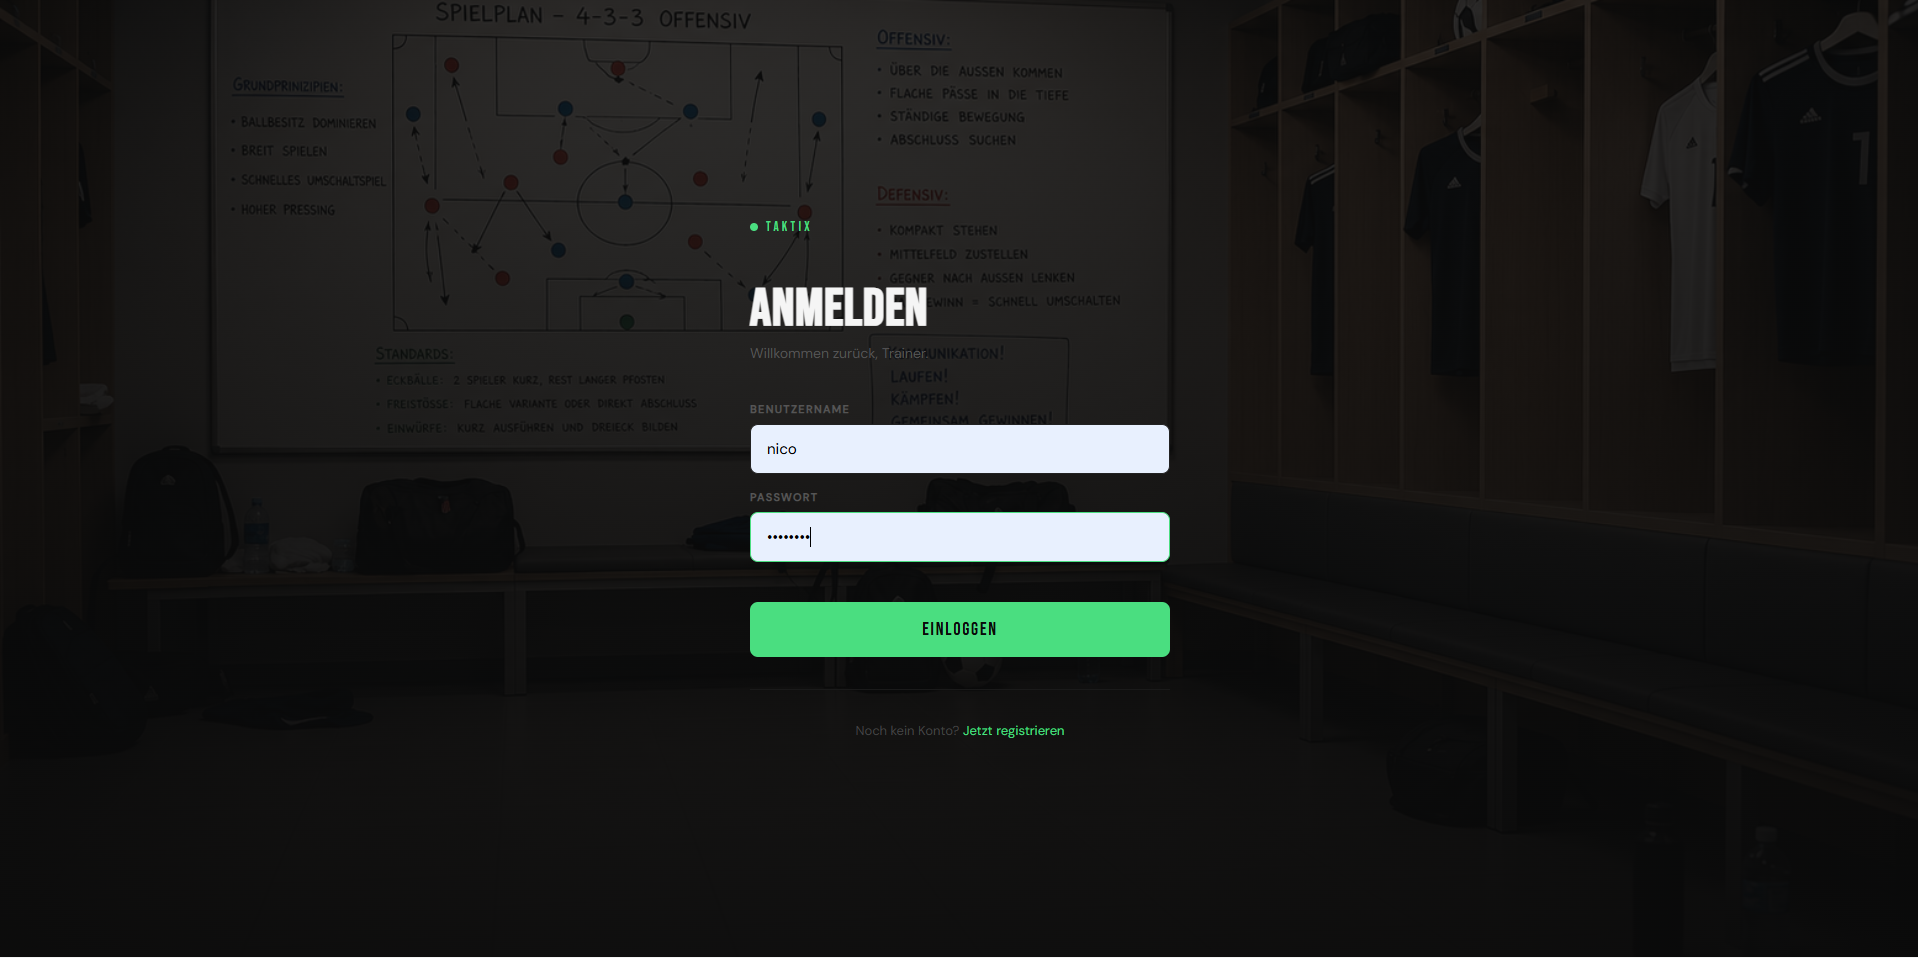
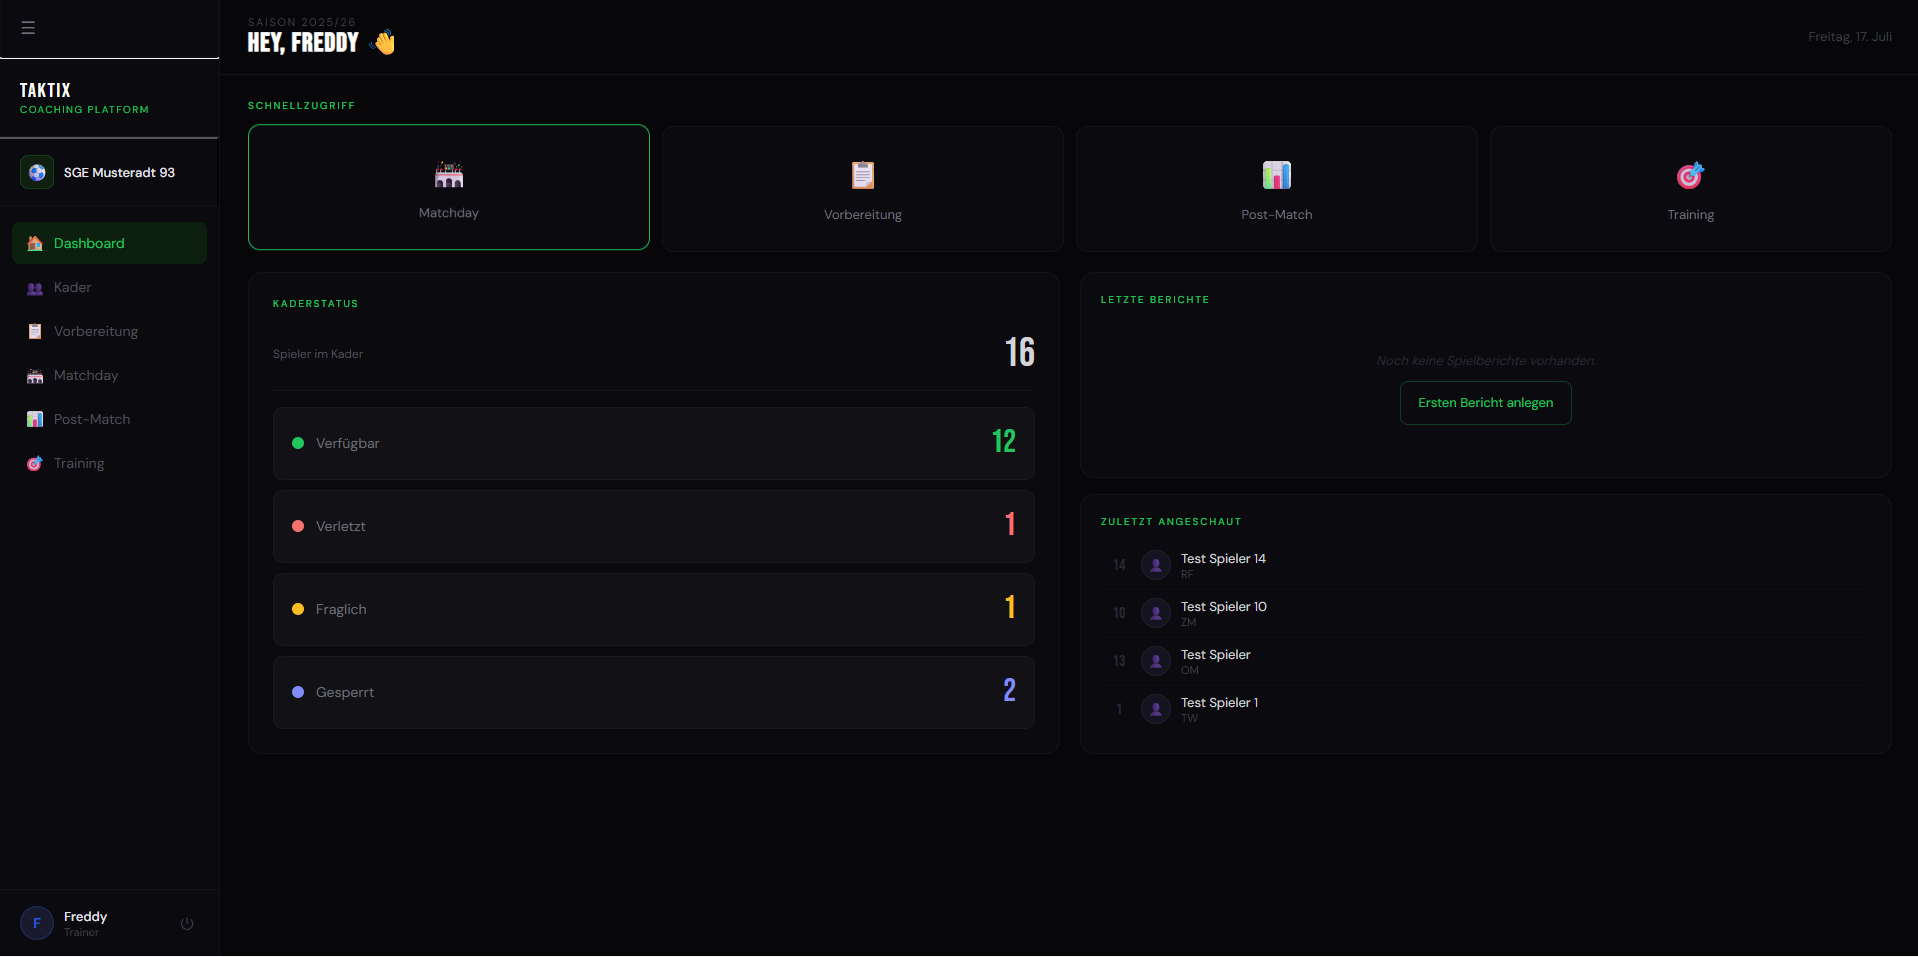
docs: Coderr documentation from the README, Docker quickstart for Taktix, new Taktix card image

diff --git a/i18n/de/docusaurus-plugin-content-docs/current/coderr.md b/i18n/de/docusaurus-plugin-content-docs/current/coderr.md
@@ -6,20 +6,77 @@ sidebar_position: 7
 
 # Coderr
 
-Coderr ist eine Plattform, auf der Anbieter Angebote erstellen und Kunden diese in Anspruch nehmen können. Ich habe das Backend mit Python, Django und Django REST Framework gebaut, inklusive Benutzerverwaltung, Authentifizierung und PostgreSQL-Datenbank.
+## Beschreibung
 
-## Technik
+Coderr ist eine RESTful-Backend-API für eine Freelancer-Plattform für Entwickler, gebaut mit Django REST Framework.
 
-Python, Django, Django REST Framework, PostgreSQL
+Das Backend übernimmt alle Kernfunktionen wie Benutzerverwaltung, Projektverwaltung, Buchungen und die Kommunikation zwischen Kunden und Entwicklern. Es ist so ausgelegt, dass es sich nahtlos in eine bestehende Frontend-Anwendung einbinden lässt.
 
-## Funktionen
+## Voraussetzungen
 
-<!-- TODO: list the main features of Coderr. -->
+Stelle sicher, dass auf deinem System folgende Software installiert ist:
+
+- Python 3.12
+- Git
 
 ## Schnellstart
 
-<!-- TODO: add prerequisites and setup steps. -->
+### Repository klonen
 
-## Architektur
+```bash
+git clone https://github.com/NicoMeyerDev/coderr-Backend.git
+```
 
-<!-- TODO: add architecture details and screenshots. -->
+### In das Projekt wechseln
+
+```bash
+cd coderr-Backend
+```
+
+### Virtuelle Umgebung erstellen und aktivieren
+
+```bash
+python -m venv env
+```
+
+Aktiviere sie:
+
+- unter Windows: `.\env\Scripts\Activate.ps1`
+- unter macOS/Linux: `source env/bin/activate`
+
+### Abhängigkeiten installieren
+
+```bash
+pip install -r requirements.txt
+```
+
+### Datenbank einrichten
+
+```bash
+python manage.py migrate
+```
+
+### Anwendung starten
+
+```bash
+python manage.py runserver
+```
+
+### Anwendung öffnen
+
+Die API ist danach unter `http://127.0.0.1:8000/` erreichbar.
+
+## Nutzung
+
+### Zugehörige Repositories
+
+| Repository   | Beschreibung                                                     |
+| ------------ | ---------------------------------------------------------------- |
+| **Frontend** | [Coderr-Frontend](https://github.com/NicoMeyerDev/Coderr-Frontend) |
+| **Backend**  | [coderr-Backend](https://github.com/NicoMeyerDev/coderr-Backend) |
+
+Das Frontend ist eine einfache Vanilla-JavaScript-Anwendung. Es braucht das laufende Backend, um zu funktionieren.
+
+**Technik:** Python, Django, Django REST Framework, PostgreSQL
+
+<!-- TODO: add architecture details and screenshots -->

diff --git a/docs/coderr.md b/docs/coderr.md
@@ -6,20 +6,77 @@ sidebar_position: 7
 
 # Coderr
 
-Coderr is a platform where providers create offers and customers can book them. I built the backend with Python, Django and Django REST Framework, including user management, authentication and a PostgreSQL database.
+## Description
 
-## Tech
+Coderr is a RESTful backend API for a freelancer developer platform, built with Django REST Framework.
 
-Python, Django, Django REST Framework, PostgreSQL
+The backend handles all core functionalities such as user management, project handling, bookings, and communication between clients and developers. It is designed to integrate seamlessly with an existing frontend application.
 
-## Features
+## Prerequisites
 
-<!-- TODO: list the main features of Coderr. -->
+Make sure the following software is installed on your system:
+
+- Python 3.12
+- Git
 
 ## Quickstart
 
-<!-- TODO: add prerequisites and setup steps. -->
+### Clone the repository
 
-## Architecture
+```bash
+git clone https://github.com/NicoMeyerDev/coderr-Backend.git
+```
 
-<!-- TODO: add architecture details and screenshots. -->
+### Navigate to the project
+
+```bash
+cd coderr-Backend
+```
+
+### Create and activate a virtual environment
+
+```bash
+python -m venv env
+```
+
+Activate it:
+
+- on Windows run: `.\env\Scripts\Activate.ps1`
+- on macOS/Linux run: `source env/bin/activate`
+
+### Install the dependencies
+
+```bash
+pip install -r requirements.txt
+```
+
+### Set up the database
+
+```bash
+python manage.py migrate
+```
+
+### Start the application
+
+```bash
+python manage.py runserver
+```
+
+### Open the application
+
+The API is then available at `http://127.0.0.1:8000/`.
+
+## Usage
+
+### Related repositories
+
+| Repository   | Description                                                      |
+| ------------ | ---------------------------------------------------------------- |
+| **Frontend** | [Coderr-Frontend](https://github.com/NicoMeyerDev/Coderr-Frontend) |
+| **Backend**  | [coderr-Backend](https://github.com/NicoMeyerDev/coderr-Backend) |
+
+The frontend is a simple Vanilla JavaScript application. It needs the running backend to work.
+
+**Tech:** Python, Django, Django REST Framework, PostgreSQL
+
+<!-- TODO: add architecture details and screenshots -->

diff --git a/i18n/de/docusaurus-plugin-content-docs/current/taktix.md b/i18n/de/docusaurus-plugin-content-docs/current/taktix.md
@@ -78,8 +78,8 @@ Live-Demo: [matchday-app-lqai.onrender.com](https://matchday-app-lqai.onrender.c
 
 Stelle sicher, dass auf deinem System folgende Software installiert ist:
 
-- Python 3.12 oder neuer
-- Node.js 22 oder neuer
+- Docker (empfohlen), oder alternativ:
+- Python 3.12 oder neuer und Node.js 22 oder neuer
 
 ## Schnellstart
 
@@ -89,7 +89,45 @@ Stelle sicher, dass auf deinem System folgende Software installiert ist:
 git clone https://github.com/NicoMeyerDev/matchday-app
 ```
 
-### Backend starten
+### Mit Docker starten
+
+Lege im Hauptordner eine Datei `.env` an und trage deine Werte ein, zum Beispiel:
+
+```bash
+POSTGRES_DB=matchday
+POSTGRES_USER=matchday_user
+POSTGRES_PASSWORD=your-password
+
+SECRET_KEY=your-secret-key
+DJANGO_ALLOWED_HOSTS=localhost,127.0.0.1
+
+DJANGO_SUPERUSER_USERNAME=admin
+DJANGO_SUPERUSER_EMAIL=admin@example.com
+DJANGO_SUPERUSER_PASSWORD=your-admin-password
+
+FRONTEND_URL=http://localhost:8080
+DEBUG=False
+```
+
+Starte danach alle Container:
+
+```bash
+docker compose up --build -d
+```
+
+Docker Compose startet drei Services:
+
+- **db:** PostgreSQL mit einem benannten Volume (`postgres_data`), sodass die Daten Neustarts überstehen
+- **backend:** Django REST Framework mit gunicorn, unter `http://localhost:8000/api/`. Das Entrypoint-Skript wendet beim Start die Migrationen an und legt den Superuser an. Der Container läuft als Nicht-Root-Benutzer.
+- **frontend:** das React-Frontend hinter nginx, unter `http://localhost:8080`
+
+:::note
+Verwende in der `.env` eigene, geheime Werte und committe die Datei nicht ins Repository.
+:::
+
+### Alternativ: ohne Docker starten
+
+#### Backend
 
 ```bash
 cd backend
@@ -109,7 +147,7 @@ python manage.py runserver
 
 Das Backend läuft unter `http://localhost:8000/api/`.
 
-### Frontend starten
+#### Frontend
 
 ```bash
 cd frontend

diff --git a/docs/taktix.md b/docs/taktix.md
@@ -78,8 +78,8 @@ Live demo: [matchday-app-lqai.onrender.com](https://matchday-app-lqai.onrender.c
 
 Make sure the following software is installed on your system:
 
-- Python 3.12 or newer
-- Node.js 22 or newer
+- Docker (recommended), or alternatively:
+- Python 3.12 or newer and Node.js 22 or newer
 
 ## Quickstart
 
@@ -89,7 +89,45 @@ Make sure the following software is installed on your system:
 git clone https://github.com/NicoMeyerDev/matchday-app
 ```
 
-### Start the backend
+### Start with Docker
+
+Create a `.env` file in the root directory and fill in your values, for example:
+
+```bash
+POSTGRES_DB=matchday
+POSTGRES_USER=matchday_user
+POSTGRES_PASSWORD=your-password
+
+SECRET_KEY=your-secret-key
+DJANGO_ALLOWED_HOSTS=localhost,127.0.0.1
+
+DJANGO_SUPERUSER_USERNAME=admin
+DJANGO_SUPERUSER_EMAIL=admin@example.com
+DJANGO_SUPERUSER_PASSWORD=your-admin-password
+
+FRONTEND_URL=http://localhost:8080
+DEBUG=False
+```
+
+Then start all containers:
+
+```bash
+docker compose up --build -d
+```
+
+Docker Compose starts three services:
+
+- **db:** PostgreSQL with a named volume (`postgres_data`), so the data survives restarts
+- **backend:** Django REST Framework with gunicorn, at `http://localhost:8000/api/`. The entrypoint script applies the migrations on start and creates the superuser. The container runs as a non-root user.
+- **frontend:** the React frontend behind nginx, at `http://localhost:8080`
+
+:::note
+Use your own secret values in the `.env` file and do not commit the file to the repository.
+:::
+
+### Alternatively: start without Docker
+
+#### Backend
 
 ```bash
 cd backend
@@ -109,7 +147,7 @@ python manage.py runserver
 
 The backend runs at `http://localhost:8000/api/`.
 
-### Start the frontend
+#### Frontend
 
 ```bash
 cd frontend
